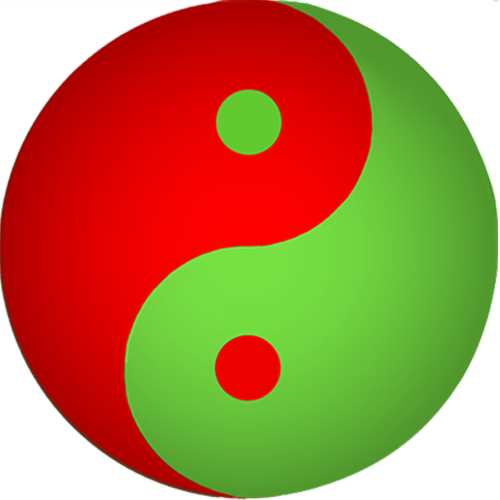
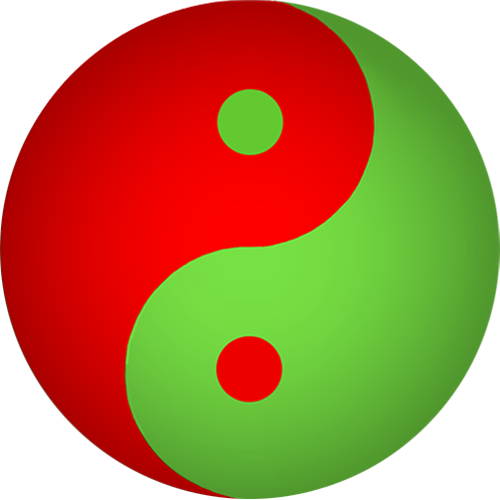
1、修复交易行情接口超时不重启问题；2、替换太极图；3、修复个股持仓成本和盈亏比例错误的问题

diff --git a/NineSunScripture/trade/api/PriceAPI.cs b/NineSunScripture/trade/api/PriceAPI.cs
@@ -44,12 +44,12 @@ namespace NineSunScripture.trade.api
         ///   /// <param name="tradeSessionId">交易会话Id</param>
         /// <param name="code">股票代码</param>
         /// <returns></returns>
-        public static Quotes QueryTenthGearPrice(int priceSessionId,int tradeSessionId, string code)
+        public static Quotes QueryTenthGearPrice(int priceSessionId, int tradeSessionId, string code)
         {
             Quotes quotes = new Quotes();
             //由于股票名称在十档里没有，所以先查五档，之后用十档的数据覆盖
             quotes = TradeAPI.QueryQuotes(tradeSessionId, code);
-            int rspCode = HQ_QueryData(priceSessionId, 0,code, "",quotes.Result, quotes.ErrorInfo);
+            int rspCode = HQ_QueryData(priceSessionId, 0, code, "", quotes.Result, quotes.ErrorInfo);
             if (rspCode > 0)
             {
                 try
@@ -62,6 +62,8 @@ namespace NineSunScripture.trade.api
                     quotes.Open = float.Parse(temp[1]);
                     quotes.LatestPrice = float.Parse(temp[2]);
                     quotes.Volume = int.Parse(temp[3]);
+                    quotes.HighLimit = float.Parse(temp[16]);
+                    quotes.LowLimit = float.Parse(temp[17]);
                     quotes.Sell1 = float.Parse(temp[10]);
                     quotes.Sell2 = float.Parse(temp[12]);
                     quotes.Sell3 = float.Parse(temp[14]);
@@ -74,17 +76,19 @@ namespace NineSunScripture.trade.api
                     quotes.Buy1Vol = int.Parse(temp[5]);
                     quotes.Buy2Vol = int.Parse(temp[7]);
                     quotes.Buy3Vol = int.Parse(temp[9]);
+                    quotes.PreClose = float.Parse(temp[46]);
                 }
                 catch (Exception e)
                 {
-                    Logger.Log("QueryTenthGear：" + ApiHelper.ParseErrInfo(quotes.Result));
+                    Logger.Log("QueryTenthGearPrice：" + ApiHelper.ParseErrInfo(quotes.Result));
                     Logger.Exception(e, ApiHelper.ParseErrInfo(quotes.Result));
                     throw e;
                 }
             }
             else
             {
-                Logger.Log("QueryQuotes：" + ApiHelper.ParseErrInfo(quotes.ErrorInfo));
+                Logger.Log("QueryTenthGearPrice：" + ApiHelper.ParseErrInfo(quotes.ErrorInfo));
+                throw new Exception(ApiHelper.ParseErrInfo(quotes.ErrorInfo));
             }
             return quotes;
         }

diff --git a/NineSunScripture/trade/api/TradeAPI.cs b/NineSunScripture/trade/api/TradeAPI.cs
@@ -7,6 +7,7 @@ using System.Runtime.InteropServices;
 using NineSunScripture.model;
 using NineSunScripture.trade.helper;
 using NineSunScripture.util.log;
+using NineSunScripture.util;
 
 namespace NineSunScripture.trade.api
 {
@@ -219,7 +220,7 @@ namespace NineSunScripture.trade.api
         }
 
         /// <summary>
-        ///  查询券商交易自带行情（交易行情数据问题很多，一天这个方法要崩好多次）
+        ///  查询券商交易自带行情（交易行情数据问题很多，这个方法一天要崩好多次）
         /// </summary>
         /// <param name="tradeSessionId">交易会话id</param>
         /// <param name="code">股票代码</param>
@@ -272,12 +273,15 @@ namespace NineSunScripture.trade.api
                 {
                     Logger.Log("QueryQuotes解析异常：" + ApiHelper.ParseErrInfo(quotes.Result));
                     Logger.Exception(e, ApiHelper.ParseErrInfo(quotes.Result));
+                    throw e;
                 }
             }
             else
             {
                 Logger.Log("QueryQuotes：" + ApiHelper.ParseErrInfo(quotes.ErrorInfo));
+                throw new Exception(ApiHelper.ParseErrInfo(quotes.ErrorInfo));
             }
+            Utils.SamplingLogQuotes(quotes);
             return quotes;
         }
 

diff --git a/NineSunScripture/trade/helper/AccountHelper.cs b/NineSunScripture/trade/helper/AccountHelper.cs
@@ -157,10 +157,24 @@ namespace NineSunScripture.trade.helper
                     position = new Position();
                 }
                 position.AvailableBalance += temp.AvailableBalance;
-                position.AvgCost = (position.AvgCost + temp.AvgCost) / 2;
+                if (0 == position.AvgCost)
+                {
+                    position.AvgCost = temp.AvgCost;
+                }
+                else
+                {
+                    position.AvgCost = (position.AvgCost + temp.AvgCost) / 2;
+                }
                 position.FrozenQuantity += temp.FrozenQuantity;
                 position.ProfitAndLoss += temp.ProfitAndLoss;
-                position.ProfitAndLossPct = (position.ProfitAndLossPct + temp.ProfitAndLossPct) / 2;
+                if (0 == position.ProfitAndLossPct)
+                {
+                    position.ProfitAndLossPct = temp.ProfitAndLossPct;
+                }
+                else
+                {
+                    position.ProfitAndLossPct = (position.ProfitAndLossPct + temp.ProfitAndLossPct) / 2;
+                }
             }
             return position;
         }

diff --git a/NineSunScripture/strategy/MainStrategy.cs b/NineSunScripture/strategy/MainStrategy.cs
@@ -98,7 +98,7 @@ namespace NineSunScripture.strategy
                     {
                         quotes = PriceAPI.QueryTenthGearPrice(
                             mainAcct.PriceSessionId, mainAcct.TradeSessionId, stocks[i].Code);
-                        //Utils.SamplingLogQuotes(quotes);
+                        Utils.SamplingLogQuotes(quotes);
                         if (quotes.LatestPrice == 0)
                         {
                             Logger.Log(quotes.ToString(), LogType.Quotes);

diff --git a/NineSunScripture/strategy/SellStrategy.cs b/NineSunScripture/strategy/SellStrategy.cs
@@ -1,6 +1,7 @@
 using NineSunScripture.model;
 using NineSunScripture.trade.api;
 using NineSunScripture.trade.helper;
+using NineSunScripture.util;
 using NineSunScripture.util.log;
 using System;
 using System.Collections.Generic;
